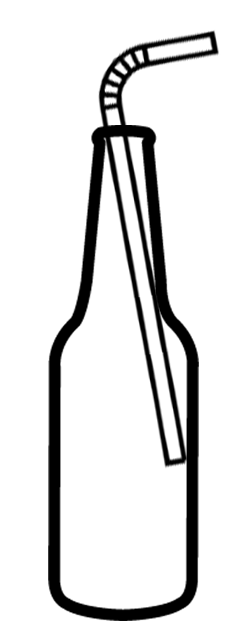
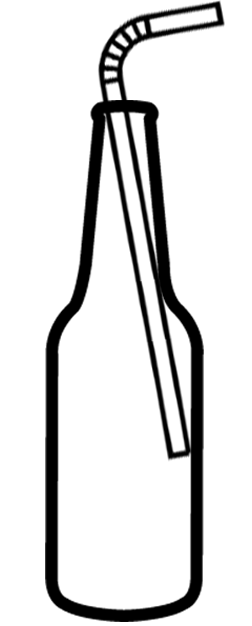
Soda image edit and changed method for infobox loading
Info-box - changed method from append to replacing html

Changed size of soda image

Changed region(s): [[0.1667, 0.0, 0.8889, 1.0]]

diff --git a/javascript/index.js b/javascript/index.js
@@ -223,42 +223,59 @@ function parseBeerInfo(beer_info){
     /* Get beer name and name2 into header
      * two different divs because namn should be in bigger font than namn2 */
 
-    var infoHeader = document.createElement('div');
-    var infoSubHeader = document.createElement('div');
-    infoSubHeader.className = 'info-sub-header';
-    infoHeader.className = "info-header";
-    infoHeader.style.fontSize = "30px";
-    infoHeader.innerHTML = beer_info[0].namn;
-    if(beer_info[0].namn2.length > 0){
-        //infoSubHeader.innerHTML += "<br>" + beer_info[0].namn2;
-        infoSubHeader.innerHTML += beer_info[0].namn2;
+    var namn = beer_info[0].namn;
+    var nameString = "<span class = 'namn'>" + namn + "</span>";
+
+    var namn2 = beer_info[0].namn2;
+
+    if(namn2.length > 0){
+        nameString += "<span class = 'namn2'> " + namn2 + "</span>";
     }
 
-    // add everything to header
-    document.getElementsByClassName("info-box-header")[0].appendChild(infoHeader);
-    document.getElementsByClassName("info-box-header")[0].appendChild(infoSubHeader);
+    document.getElementsByClassName("info-box-header")[0].innerHTML = nameString;
 
-    /* get everything else and add it to the main body of infobox*/
-    var infoBody = document.createElement('div');
-    infoBody.className= "info-body";
-    // Ecological
-    // alert("ekologisk: " + beer_info[0].ekologisk);
-    infoBody.innerHTML = "Ecologic: ";
+    var bodyString = " Ecological: ";
     if(beer_info[0].ekologisk == "1"){
-        infoBody.innerHTML += "<b>Yes</b>";
+            bodyString += "Yes";
     }
     else {
-        infoBody.innerHTML += "<b>No</b>";
+        bodyString +=  "No";
     }
 
-    infoBody.innerHTML += "<br><br>Alcohol: <b>" + beer_info[0].alkoholhalt + "</b>";
-    // GROUP
-    infoBody.innerHTML += "<br><br>Tags: <b>" + beer_info[0].varugrupp + "</b>";
-    //Origin country
-    infoBody.innerHTML += "<br><br>Country: <b>" + beer_info[0].ursprunglandnamn + "</b>";
+    //Alcoholic percent
+    bodyString += "<br><br>Alcohol: " + beer_info[0].alkoholhalt;
+    // // GROUP
+    bodyString += "<br><br>Tags: " + beer_info[0].varugrupp;
+    // //Origin country
+    bodyString += "<br><br>Country: " + beer_info[0].ursprunglandnamn ;
 
-    //add final resuilt
-    document.getElementsByClassName("info-box-body")[0].appendChild(infoBody);
+    document.getElementsByClassName("info-box-body")[0].innerHTML = bodyString;
+
+    var drinkTypeReal = beer_info[0].varugrupp;
+    var drinkType = drinkTypeReal.split(',')[0]; //remove everything after a "," from the drink type description
+
+    /*check drink type and decide which image to use*/
+    if (drinkType == "Rött vin" || drinkType == "Vitt vin") {
+        // set image to wine
+        document.getElementsByClassName("info-box-drink-image")[0].innerHTML = "<img src='resources/wine.png' height='300px' width='120px'/>";
+        //  infoImage.innerHTML = "<img src='resources/wine.png' height='300px' width='120px'/>";
+    }
+    else if (drinkType == "Cider" || drinkType == "Blanddrycker") {
+        // set iamge to cider
+        document.getElementsByClassName("info-box-drink-image")[0].innerHTML = "<img src='resources/cider.png' height='300px' width='120px'/>";
+        // infoImage.innerHTML = "<img src='resources/cider.png' height='300px' width='120px'/>";
+    }
+    else if (drinkType == "Alkoholfritt") {
+        // set image to non-alco
+        document.getElementsByClassName("info-box-drink-image")[0].innerHTML = "<img src='resources/soda.png' height='300px' width='120px'/>";
+        // infoImage.innerHTML = "<img src='resources/soda.png' height='300px' width='120px'/>";
+    }
+    else {
+        // alert("SETTING TO BEER IMG");
+        // set image to beer
+        document.getElementsByClassName("info-box-drink-image")[0].innerHTML = "<img src='resources/beer.png' height='300px' width='120px'/>";
+        // infoImage.innerHTML = "<img src='resources/beer.png'  height='300px' width='120px'/>";
+    }
 }
 
 // gets the info from beer_data_get for a beer_id
@@ -282,17 +299,21 @@ function showInfo(overlay) {
 function hideInfo() {
     // alert("Trying to hide info");
     // get classes
-    var headerDiv = document.getElementsByClassName("info-box-header");
-    var bodyDiv = document.getElementsByClassName("info-box-body");
+    // var headerDiv = document.getElementsByClassName("info-box-header");
+    // var bodyDiv = document.getElementsByClassName("info-box-body");
+    // var imageDiv = document.getElementsByClassName("info-image");
     var overlay = document.getElementsByClassName("overlay")[0];
-
-    // delete subdivs
-    while(headerDiv[0].firstChild) {
-        headerDiv[0].removeChild(headerDiv[0].firstChild);
-    }
-    while(bodyDiv[0].firstChild){
-        bodyDiv[0].removeChild(bodyDiv[0].firstChild);
-    }
+    //
+    // // delete subdivs
+    // while(headerDiv[0].firstChild) {
+    //     headerDiv[0].removeChild(headerDiv[0].firstChild);
+    // }
+    // while(imageDiv[0].firstChild) {
+    //     imageDiv[0].removeChild(imageDiv[0].firstChild);
+    // }
+    // while(bodyDiv[0].firstChild){
+    //     bodyDiv[0].removeChild(bodyDiv[0].firstChild);
+    // }
 
     // hide overlay
     overlay.style.display = "none";
@@ -314,13 +335,13 @@ function createEventHandlers() {
         hideInfo();
     });
 
-    $(document).on('click', 'window', function(event) {
-        var overlay = document.getElementsByClassName("overlay")[0];
-        if(event.target == overlay){
-            hideInfo(overlay);
-        }
-
-    });
+    // $(document).on('click', 'window', function(event) {
+    //     var overlay = document.getElementsByClassName("overlay")[0];
+    //     if(event.target == overlay){
+    //         hideInfo(overlay);
+    //     }
+    //
+    // });
 }
 
 /*

diff --git a/css/index.css b/css/index.css
@@ -74,6 +74,23 @@ body {
     color: black;
 }
 
+/* namn in header of info-box*/
+.namn {
+    font-size: 30px;
+}
+
+.info-box-drink-image{
+    display: flex;
+    background-color: white;
+    position: absolute;
+    top: 50%;
+    /*left pos is half - center of page - 250px(half of infobox width) and - 120(width of image)*/
+    left: calc(50% - 370px);
+    height: 300px;
+    width: 120px;
+    /*margin-left: -60px);*/
+    margin-top: -150px;
+}
 .info-header {
     margin: 0 10px;
 }

diff --git a/index.html b/index.html
@@ -18,6 +18,7 @@
 <!--an overlay to "grey out" everything-->
 <div class = "overlay">
     <!--info box to appear in the middle of the screen-->
+
     <div class = "info-box">
         <div class = "info-box-drink-image">
         </div>
